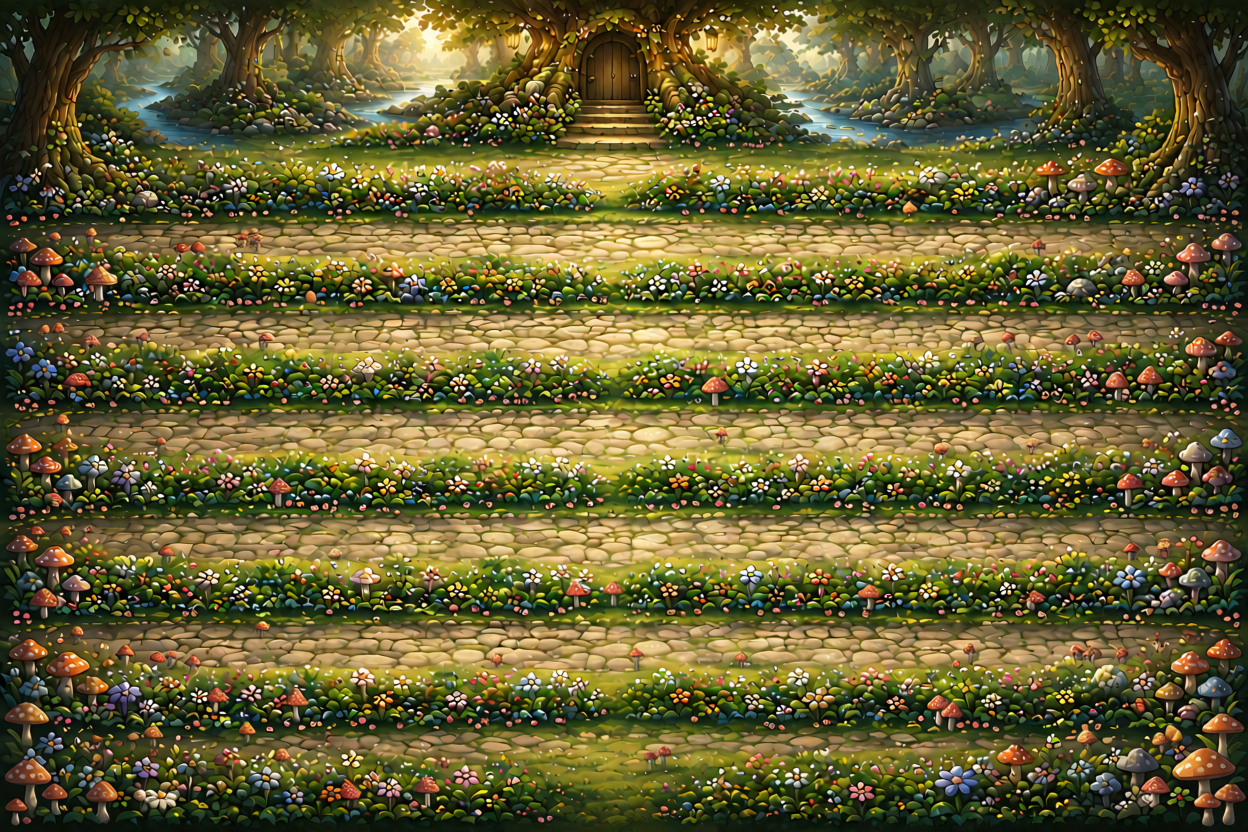
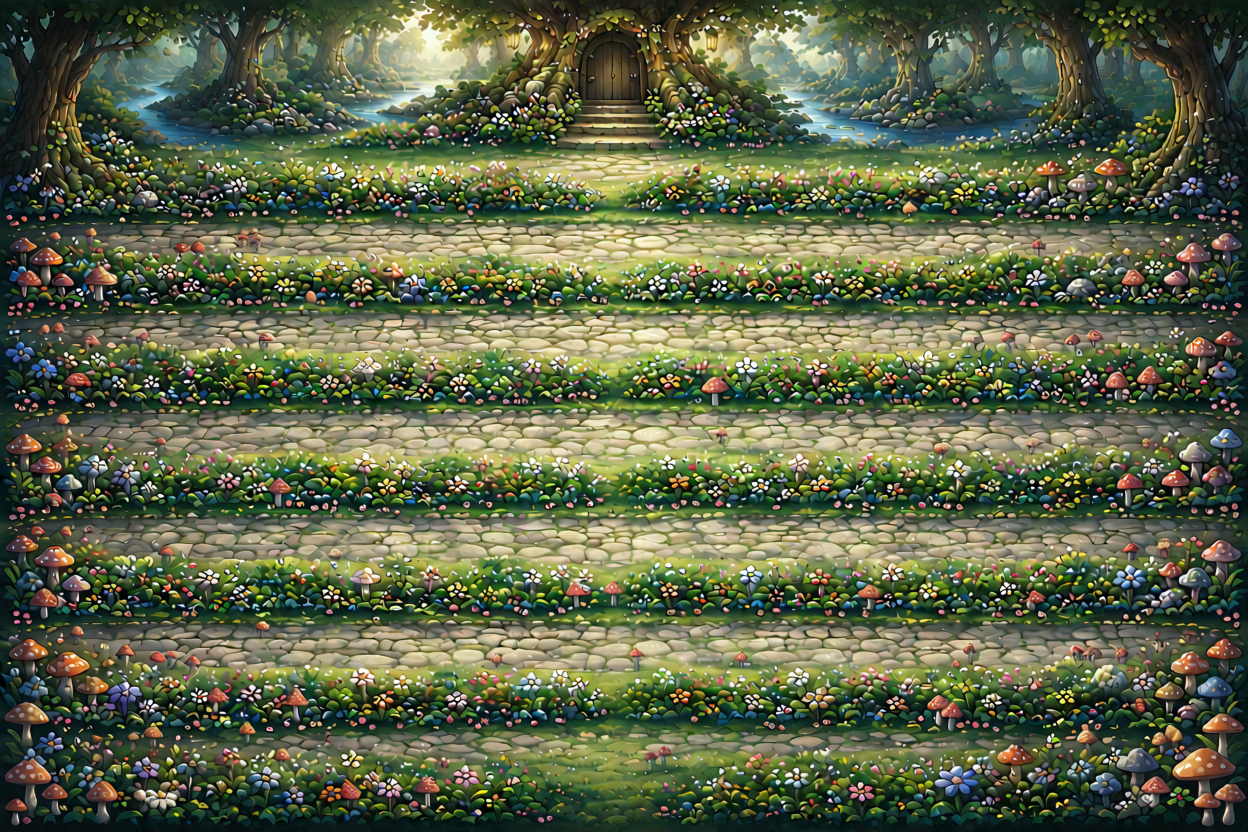
Update vehicle lanes

diff --git a/Src/Managers/VehicleManager.cpp b/Src/Managers/VehicleManager.cpp
@@ -2,11 +2,20 @@
 
 VehicleManager::VehicleManager()
 {
-    lanes.emplace_back(180, 1, 3, 3);
+    // Lane 1 - gần đích nhất
+    lanes.emplace_back(185, 1, 3, 3);
 
-    lanes.emplace_back(280, -1, 5, 2);
+    // Lane 2
+    lanes.emplace_back(267, -1, 4, 3);
 
-    lanes.emplace_back(380, 1, 4, 3);
+    // Lane 3
+    lanes.emplace_back(347, 1, 3, 3);
+
+    // Lane 4
+    lanes.emplace_back(434, -1, 5, 3);
+
+    // Lane 5 - gần nhân vật nhất
+    lanes.emplace_back(531, 1, 4, 3);
 }
 
 void VehicleManager::Update()

diff --git a/Include/Managers/VehicleManager.h b/Include/Managers/VehicleManager.h
@@ -1,8 +1,10 @@
 #pragma once
 
 #include <vector>
+#include <SDL.h>
 
 #include "World/Lane.h"
+
 class VehicleManager
 {
 public:
